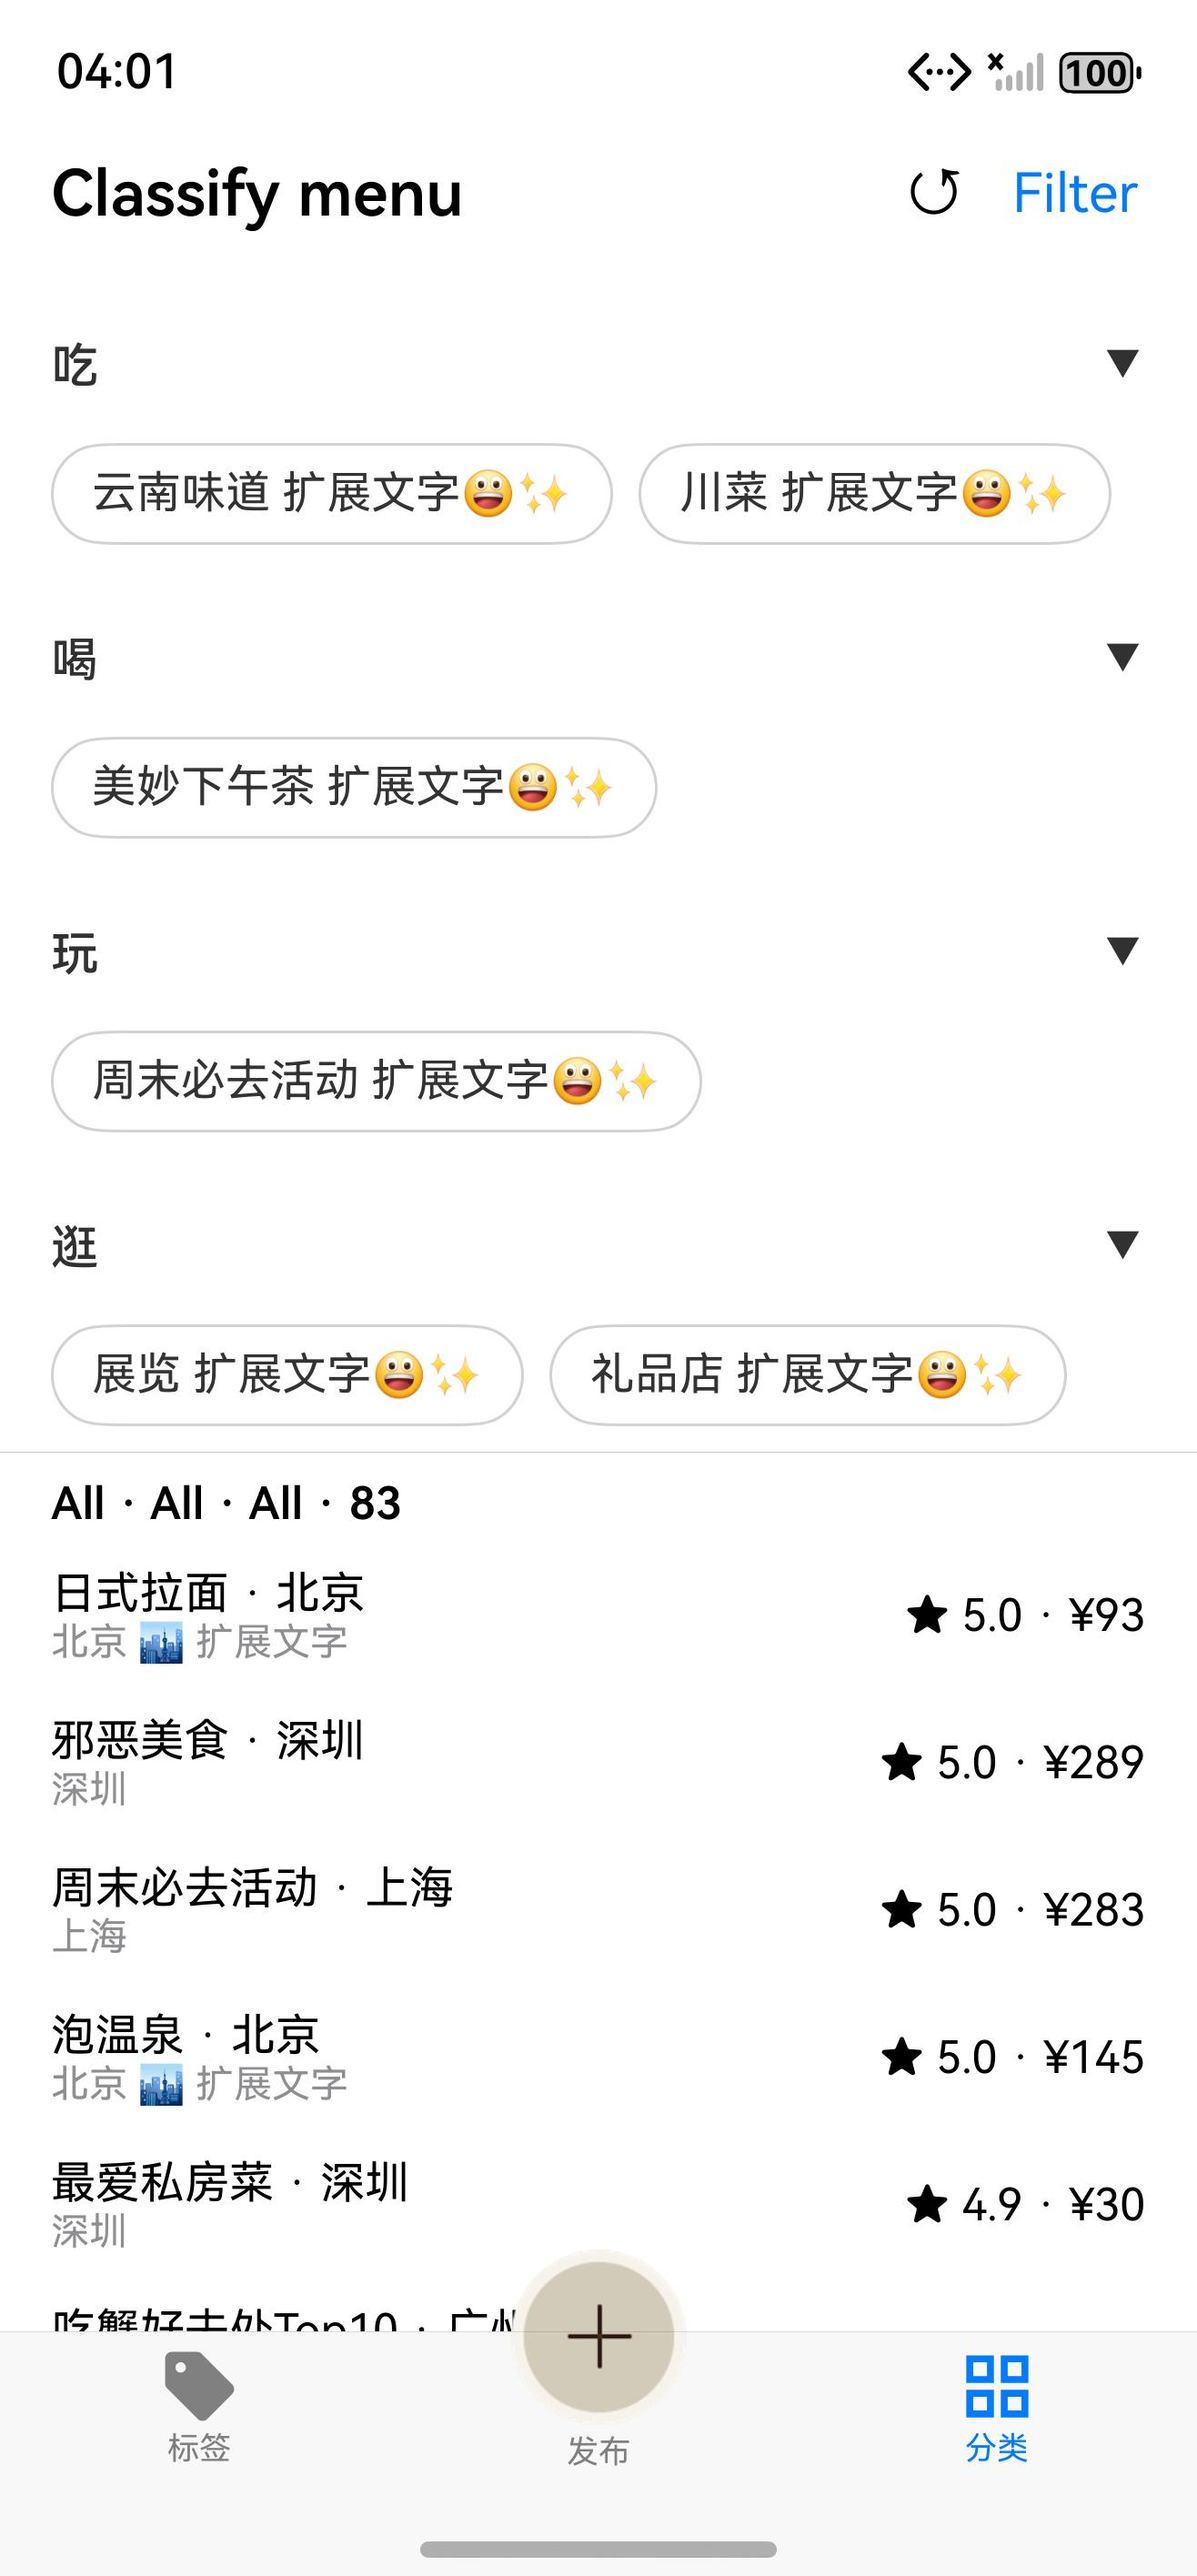
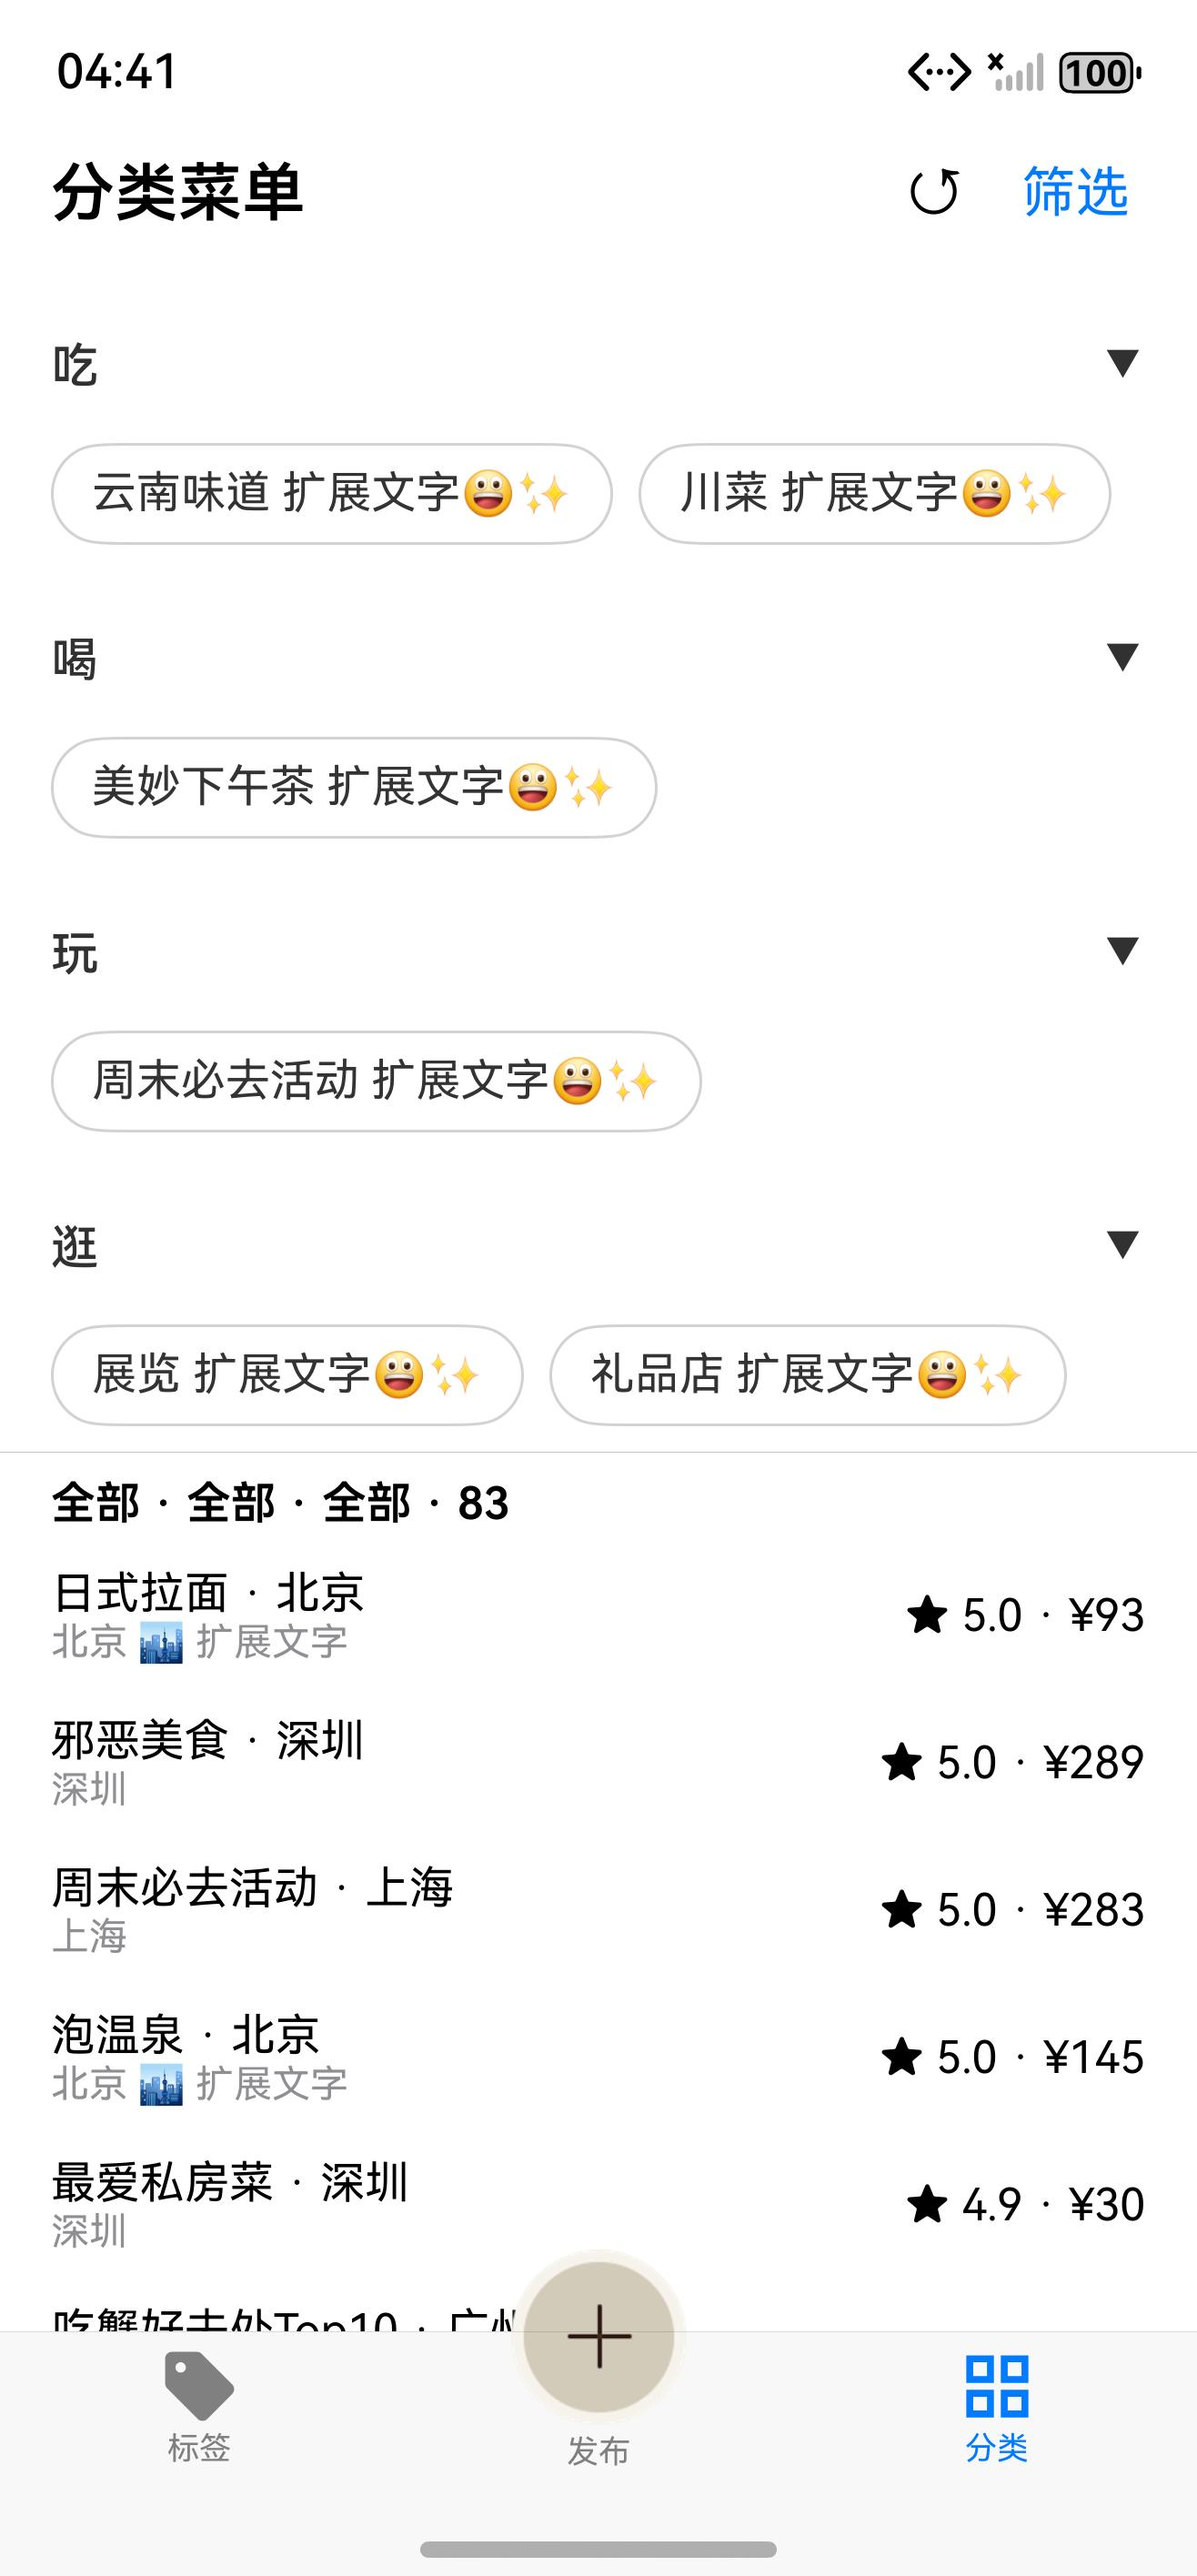
fix: 🐛 RN example: read the locale from I18nManager constants (HarmonyOS)
On React Native for OpenHarmony the locale comes from the I18nManager
turbo module, which NativeModules does not reach, so the pages stayed
English on a Chinese device. Checked on the HarmonyOS emulator.

By @ChenYilong <luohanchenyilong@163.com>

Claude-Session: https://claude.ai/code/session_017y7XP1mQbtZ3qSM2mvdshG

diff --git a/react-native/react-native-cyl-tag-list/example/src/i18n.ts b/react-native/react-native-cyl-tag-list/example/src/i18n.ts
@@ -1,4 +1,4 @@
-import { NativeModules, Platform } from 'react-native';
+import { I18nManager, NativeModules, Platform } from 'react-native';
 
 /**
  * The example's strings (the example-level table; the core and CYLTabBarController keep their own).
@@ -26,7 +26,9 @@ const zh: Record<string, string> = {
 function locale(): string {
   const settings = NativeModules.SettingsManager?.settings;
   const ios = settings?.AppleLocale ?? settings?.AppleLanguages?.[0];
-  return (Platform.OS === 'ios' ? ios : NativeModules.I18nManager?.localeIdentifier) ?? 'en';
+  // Android and HarmonyOS (React Native for OpenHarmony: a turbo module that NativeModules does not reach).
+  const other = I18nManager.getConstants?.()?.localeIdentifier ?? NativeModules.I18nManager?.localeIdentifier;
+  return (Platform.OS === 'ios' ? ios : other) ?? 'en';
 }
 
 const table = locale().startsWith('zh') ? zh : {};

diff --git a/docs/cross-platform.md b/docs/cross-platform.md
@@ -99,7 +99,9 @@ Every open `TODO` found in the cross-platform documents (`cross-platform.md`, `a
   redirects `@op-engineering/op-sqlite`); its `moveAssetsDatabase` copies `databaseDir` onto itself, so
   `PlacesDatabase.ets` copies `cyl_places.sqlite` from rawfile first. 83 places.
 - **Gaps found:** the library's configuration parser reads tabs but not the plus button (set in code); the React
-  Native pages' own strings stay English on a Chinese device (`i18n.ts` does not detect the HarmonyOS locale);
+  Native pages' own strings stayed English on a Chinese device: fixed the same day, `i18n.ts` reads
+  `I18nManager.getConstants().localeIdentifier` (RNOH's turbo module, which `NativeModules` does not reach), so
+  Classify shows 分类菜单 / 筛选 / 全部 (screenshot below, retaken; `tsc --noEmit` passes for the iOS/Android example);
   autolinking adds op-sqlite to `harmony/oh-package.json5` during the build, so that file is committed with it.
 - **Fixed on the way:** `6bf3bae` had left out `harmony/entry/src` (the `src/` ignore pattern of the copied JS pages
   matched it); the patterns are anchored now (`98a97f5`).
